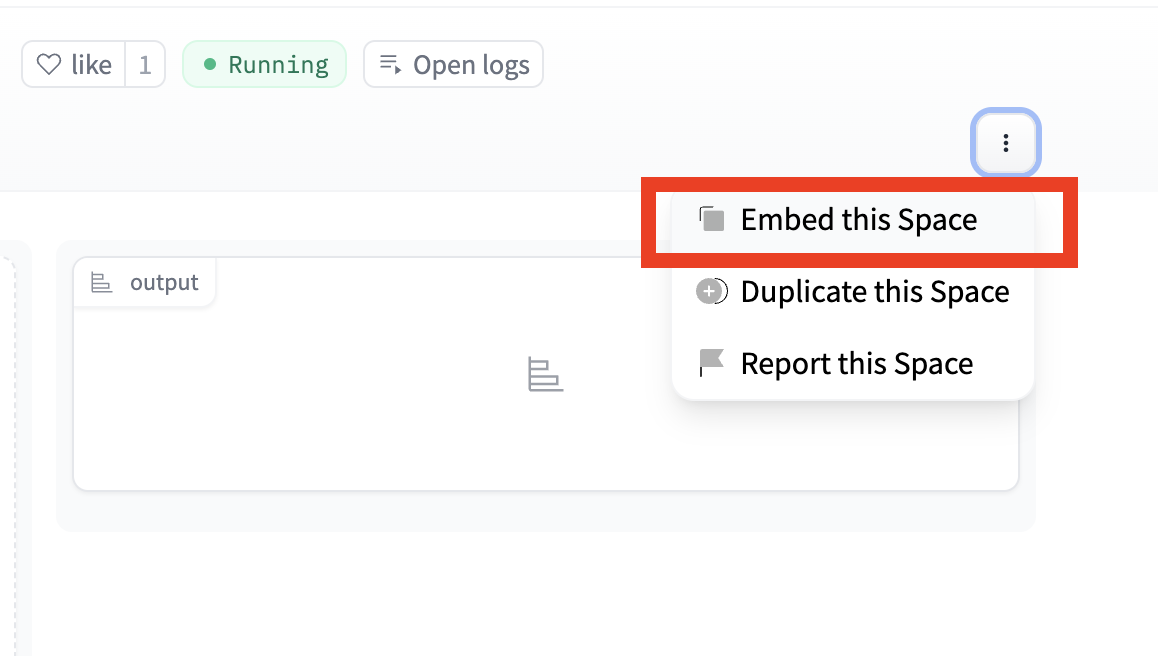
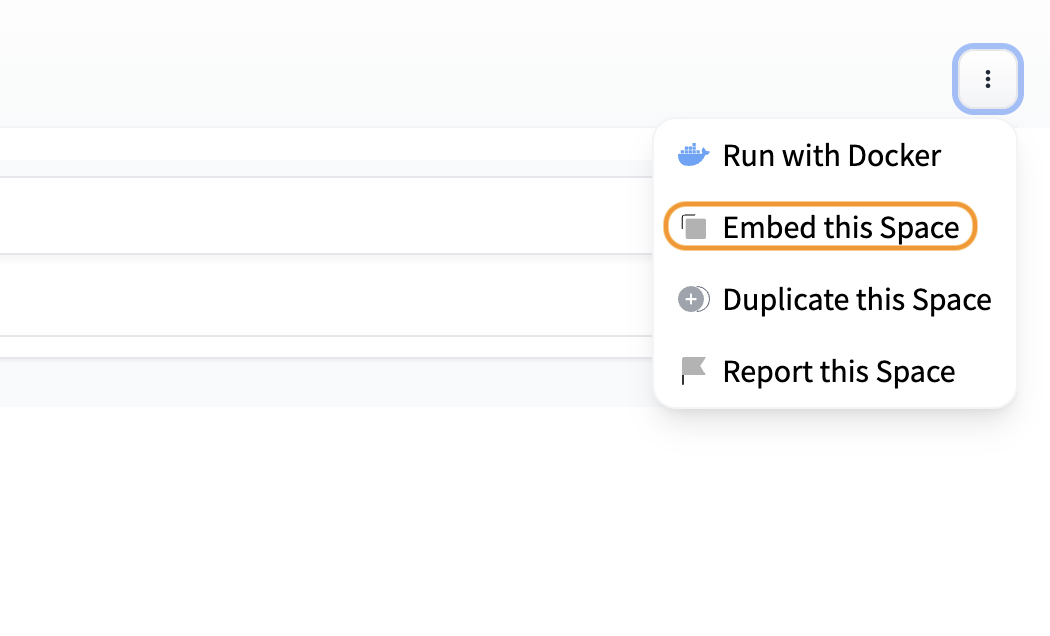
Fix outdated sharing your app guide (#3699)
* fix embed this space screenshot

* fix use via api

* changelog

---------

diff --git a/guides/01_getting-started/03_sharing-your-app.md b/guides/01_getting-started/03_sharing-your-app.md
@@ -122,7 +122,11 @@ You'll also need to add a fixed `height` manually as well as other regular ifram
 
 $demo_hello_world
 
-See the "view api" link in footer of the app above? This is a page that documents the REST API that users can use to query the `Interface` function. `Blocks` apps can also generate an API page, though the API has to be explicitly named for each event listener, such as
+If you click and open the space above, you'll see a "Use via API" link in the footer of the app. 
+
+![Use via API](/assets/guides/use_via_api.png)
+
+This is a page that documents the REST API that users can use to query the `Interface` function. `Blocks` apps can also generate an API page, though the API has to be explicitly named for each event listener, such as
 
 ```python
 btn.click(add, [num1, num2], output, api_name="addition")

diff --git a/CHANGELOG.md b/CHANGELOG.md
@@ -38,6 +38,8 @@ By [@freddyaboulton](https://github.com/freddyaboulton) in [PR 3581](https://git
 - Makes some fixes to the Theme Guide related to naming of variables, by [@abidlabs](https://github.com/abidlabs) in [PR 3561](https://github.com/gradio-app/gradio/pull/3561)
 - Documented `HuggingFaceDatasetJSONSaver` by [@osanseviero](https://github.com/osanseviero) in [PR 3604](https://github.com/gradio-app/gradio/pull/3604)
 - Makes some additions to documentation of `Audio` and `State` components, and fixes the `pictionary` demo by [@abidlabs](https://github.com/abidlabs) in [PR 3611](https://github.com/gradio-app/gradio/pull/3611)
+- Fix outdated sharing your app guide by [@aliabd](https://github.com/aliabd) in [PR 3699](https://github.com/gradio-app/gradio/pull/3699)
+
 
 ## Testing and Infrastructure Changes:
 
